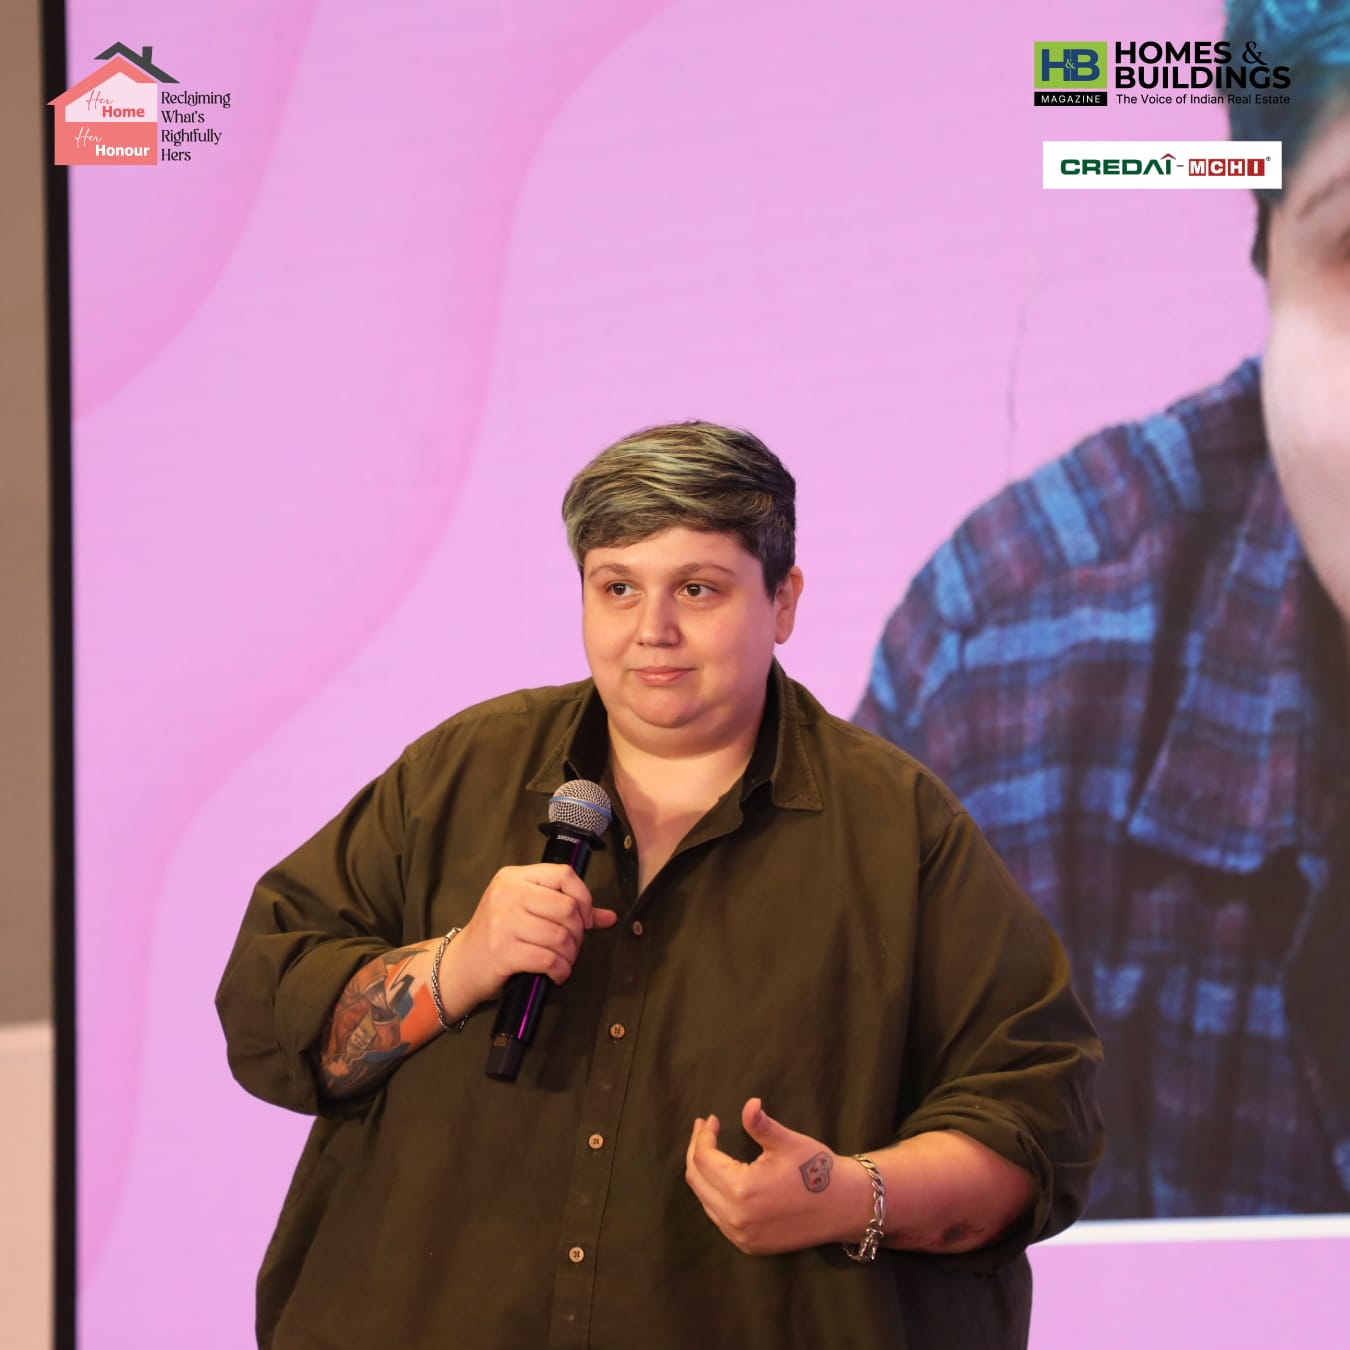
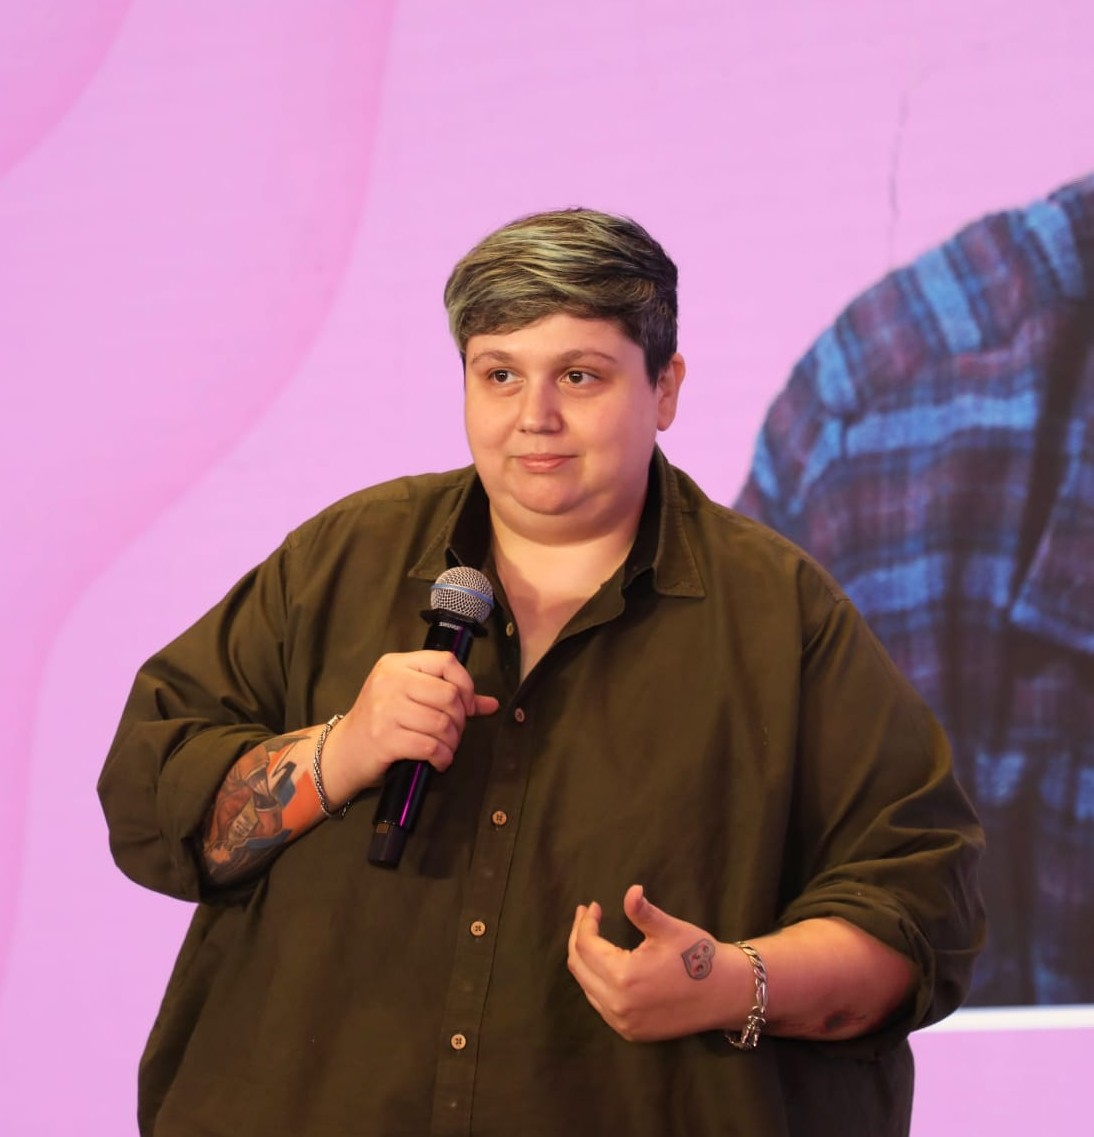
fixed few bugs

diff --git a/src/assets/README.md b/src/assets/README.md
@@ -1,28 +1,19 @@
-# Assets
+# Image assets
 
-Drop your real image files here, then import them in components/pages.
+Store site photography in these folders:
 
-Suggested structure:
-
-```
+```text
 assets/
-├── aanchal.jpg          # profile photo (used in Home + About intro cards)
-├── intro-video.mp4      # 32s intro clip (Home page)
-├── press/               # media-outlet logos
-│   ├── gq-india.png
-│   ├── hindustan-times.png
-│   └── ...
-└── gallery/             # event photos + topic illustrations
-    ├── workshop-1.jpg
-    └── ...
+├── aanchal/   # Aanchal's portraits and public-speaking photos
+└── gallery/   # Photos displayed on the Gallery page
 ```
 
-Example import:
+Import an Aanchal portrait from a page component like this:
 
 ```jsx
-import aanchal from '../assets/aanchal.jpg'
-<img src={aanchal} alt="Aanchal Narang" className="w-48 h-48 rounded-full object-cover" />
+import portrait from '../assets/aanchal/AanchalNarang.jpeg'
+
+<img src={portrait} alt="Aanchal Narang" />
 ```
 
-Until you add real files, the site renders tasteful icon/gradient placeholders
-in their place, so it looks complete out of the box.
+The Gallery page loads supported image files directly from `assets/gallery`.
